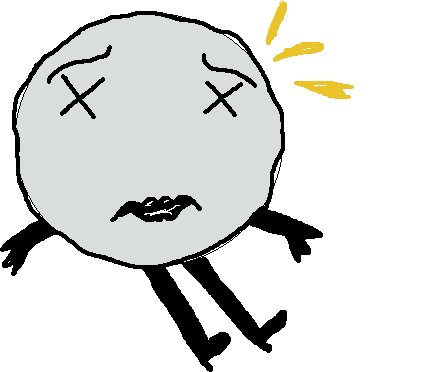
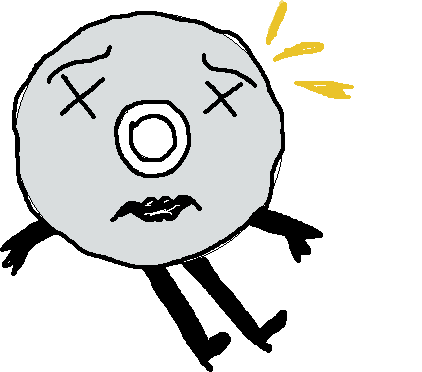
KILL DISKETTE: restore the drawn Diskette's centre rings; make the hole see-through
Undoes the grey paint-over; make-art.py now only makes the white inside
the centre hole transparent (flood fill from its middle), like a real disc.

Claude-Session: https://claude.ai/code/session_019PfJGXSpEo2CxpEbR7oiqv

Changed region(s): [[0.2464, 0.2661, 0.4621, 0.5027]]

diff --git a/tools/skunkpets-redux/kill-diskette/make-art.py b/tools/skunkpets-redux/kill-diskette/make-art.py
@@ -2,8 +2,8 @@
 # writes them next to the minigame (src/building/skunkpets/minigames/kill-diskette/):
 #   diskette.png              the usual one
 #   diskette-<name>.png       the variants she sometimes pops up as
-# The disc's centre hole (white with black rings) is painted over in the
-# disc's grey (Leo asked for it gone). The white paper around her is made transparent (a flood fill from the
+# The white inside the disc's centre hole is see-through, like a real disc
+# (the black rings stay). The white paper around her is made transparent (a flood fill from the
 # edges, so her eyes and the hole in the middle stay white), and every
 # picture is cropped to the same box, so she's the same size and in the same
 # place whichever one pops up.
@@ -24,15 +24,28 @@ PICTURES = {
     'diskette-stop.png': 'variant-stop.png',
 }
 
-# Where the centre hole is in every drawing (same canvas): centre and radii, px.
-HOLE = (248, 180, 45, 46)
-DISC_GREY = (217, 221, 222, 255)
+# A point inside the centre hole's white, in every drawing (same canvas).
+HOLE = (247, 179)
+
+def fill_from(light, seeds):
+    """The light pixels connected to the seeds."""
+    h, w = light.shape
+    out = np.zeros((h, w), bool)
+    q = deque((y, x) for y, x in seeds if light[y, x])
+    for y, x in q: out[y, x] = True
+    while q:
+        y, x = q.popleft()
+        for dy, dx in ((1, 0), (-1, 0), (0, 1), (0, -1)):
+            ny, nx = y + dy, x + dx
+            if 0 <= ny < h and 0 <= nx < w and light[ny, nx] and not out[ny, nx]:
+                out[ny, nx] = True
+                q.append((ny, nx))
+    return out
 
 def cut_out(path):
     a = np.array(Image.open(path).convert('RGBA'))
-    yy, xx = np.mgrid[0:a.shape[0], 0:a.shape[1]]
-    cx, cy, rx, ry = HOLE
-    a[((xx - cx) / rx) ** 2 + ((yy - cy) / ry) ** 2 <= 1] = DISC_GREY
+    hole_light = a[:, :, :3].astype(int).min(axis=2) > 200
+    hole = fill_from(hole_light, [(HOLE[1], HOLE[0])])
     h, w = a.shape[:2]
     light = a[:, :, :3].astype(int).min(axis=2) > 200
     bg = np.zeros((h, w), bool)
@@ -48,7 +61,7 @@ def cut_out(path):
             if 0 <= ny < h and 0 <= nx < w and light[ny, nx] and not bg[ny, nx]:
                 bg[ny, nx] = True
                 q.append((ny, nx))
-    a[:, :, 3] = np.where(bg, 0, 255)
+    a[:, :, 3] = np.where(bg | hole, 0, 255)
     return Image.fromarray(a)
 
 pics = {out: cut_out(os.path.join(SRC, src)) for out, src in PICTURES.items()}
